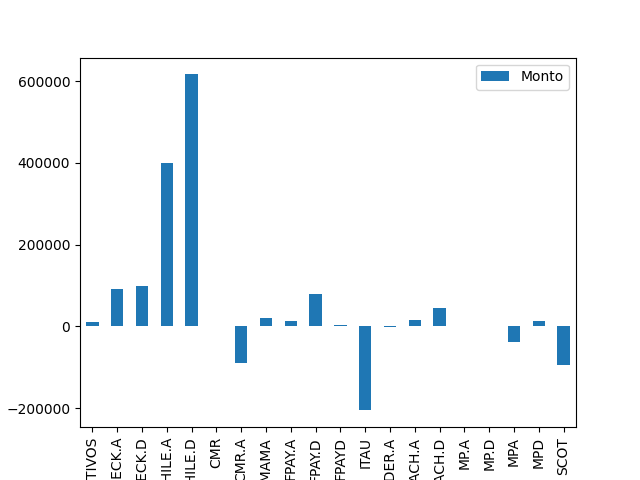
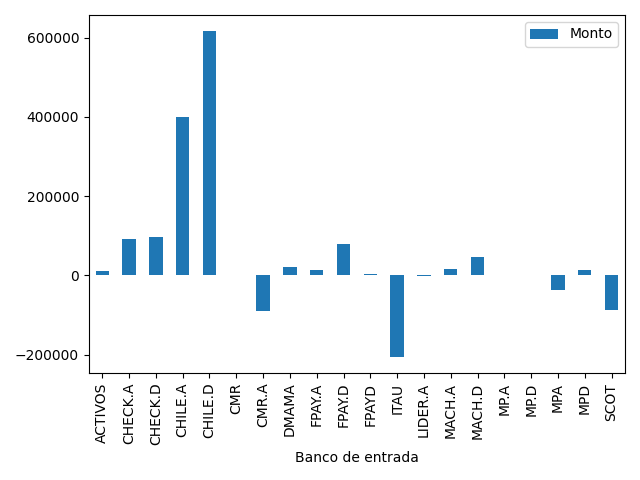
Añadiendo descarga y post

diff --git a/BotCuentasP.py b/BotCuentasP.py
@@ -22,8 +22,11 @@ web_server = Flask(__name__)
 
 gc = gspread.service_account(filename= 'creds.json')
 sh = gc.open('CuentasAGV').sheet1
+sh2 = gc.open('CuentasAGV').get_worksheet(1)
 diccionario  =  sh.get_all_records()
+diccionario2  =  sh2.get_all_records()
 df = pd.DataFrame(diccionario)
+df2 = pd.DataFrame(diccionario2)
 
 #hilo = threading.Thread(name = "hilo_web_server", target = arrancar_web_server)
 
@@ -179,16 +182,31 @@ def guardar_datos_usuario(message):
    
 @bot.message_handler(commands = ['totalcuentas'])
 def cmd_totalcuentas(message):
+    gc = gspread.service_account(filename= 'creds.json')
+    sh = gc.open('CuentasAGV').sheet1
+    sh2 = gc.open('CuentasAGV').get_worksheet(1)
+    diccionario  =  sh.get_all_records()
+    diccionario2  =  sh2.get_all_records()
+    df = pd.DataFrame(diccionario)
+    df2 = pd.DataFrame(diccionario2)
     table = pd.pivot_table(data=df,index=['Banco de entrada'])
     Total = df['Monto'].sum()
+    fecha = datetime.datetime.fromtimestamp(message.date)
+    sh2.append_row([str(fecha),int(Total)])
     markup = ReplyKeyboardRemove()
-    bot.reply_to(message, Total, reply_markup= markup)
+    bot.reply_to(message,"${:,.1f}".format(Total), reply_markup= markup)
     #dfSCOT = df[df['Banco de entrada'] == "SCOT"] 
     #dfSCOT.plot(x ='Banco de entrada', y='Monto',kind="bar")
     table.plot(kind="bar")
     #.yaxis.set_major_formatter('${x:1.2f}')
+    plt.tight_layout()
     plt.savefig('imoo.png')
+    df2.plot(x="Fecha",kind="line")
+    plt.xticks(rotation=270)
+    plt.tight_layout()
+    plt.savefig('imoos.png')
     bot.send_photo(message.chat.id, photo=open('imoo.png', 'rb'))
+    bot.send_photo(message.chat.id, photo=open('imoos.png', 'rb'))
     #bot.send_photo(message.chat.id, photo=plt.show())
     
 
@@ -260,12 +278,12 @@ def arrancar_web_server():
 
 if __name__ == '__main__':
     bot.set_my_commands([
-        telebot.types.BotCommand('/start', 'da la2'),
-        telebot.types.BotCommand('/cuentas', 'da la b'),
-        telebot.types.BotCommand('/totalcuentas', 'da saa'),
-        telebot.types.BotCommand('/cuentastabla', 'da lasa venid'),
-        telebot.types.BotCommand('/cuentashtml', 'da'),
-        telebot.types.BotCommand('/cuentasbip', 'da asnida')
+        telebot.types.BotCommand('/start', 'Inicio del bot'),
+        telebot.types.BotCommand('/cuentas', 'Añade gasto o ingreso'),
+        telebot.types.BotCommand('/totalcuentas', 'Balance total'),
+        telebot.types.BotCommand('/cuentastabla', 'Balance por banco'),
+        telebot.types.BotCommand('/cuentashtml', 'Detalle por Banco'),
+        telebot.types.BotCommand('/cuentasbip', 'Añade gasto frecuente')
         ])
     print("Iniciando el bot")
     if os.environ.get("DYNO_RAM"):
